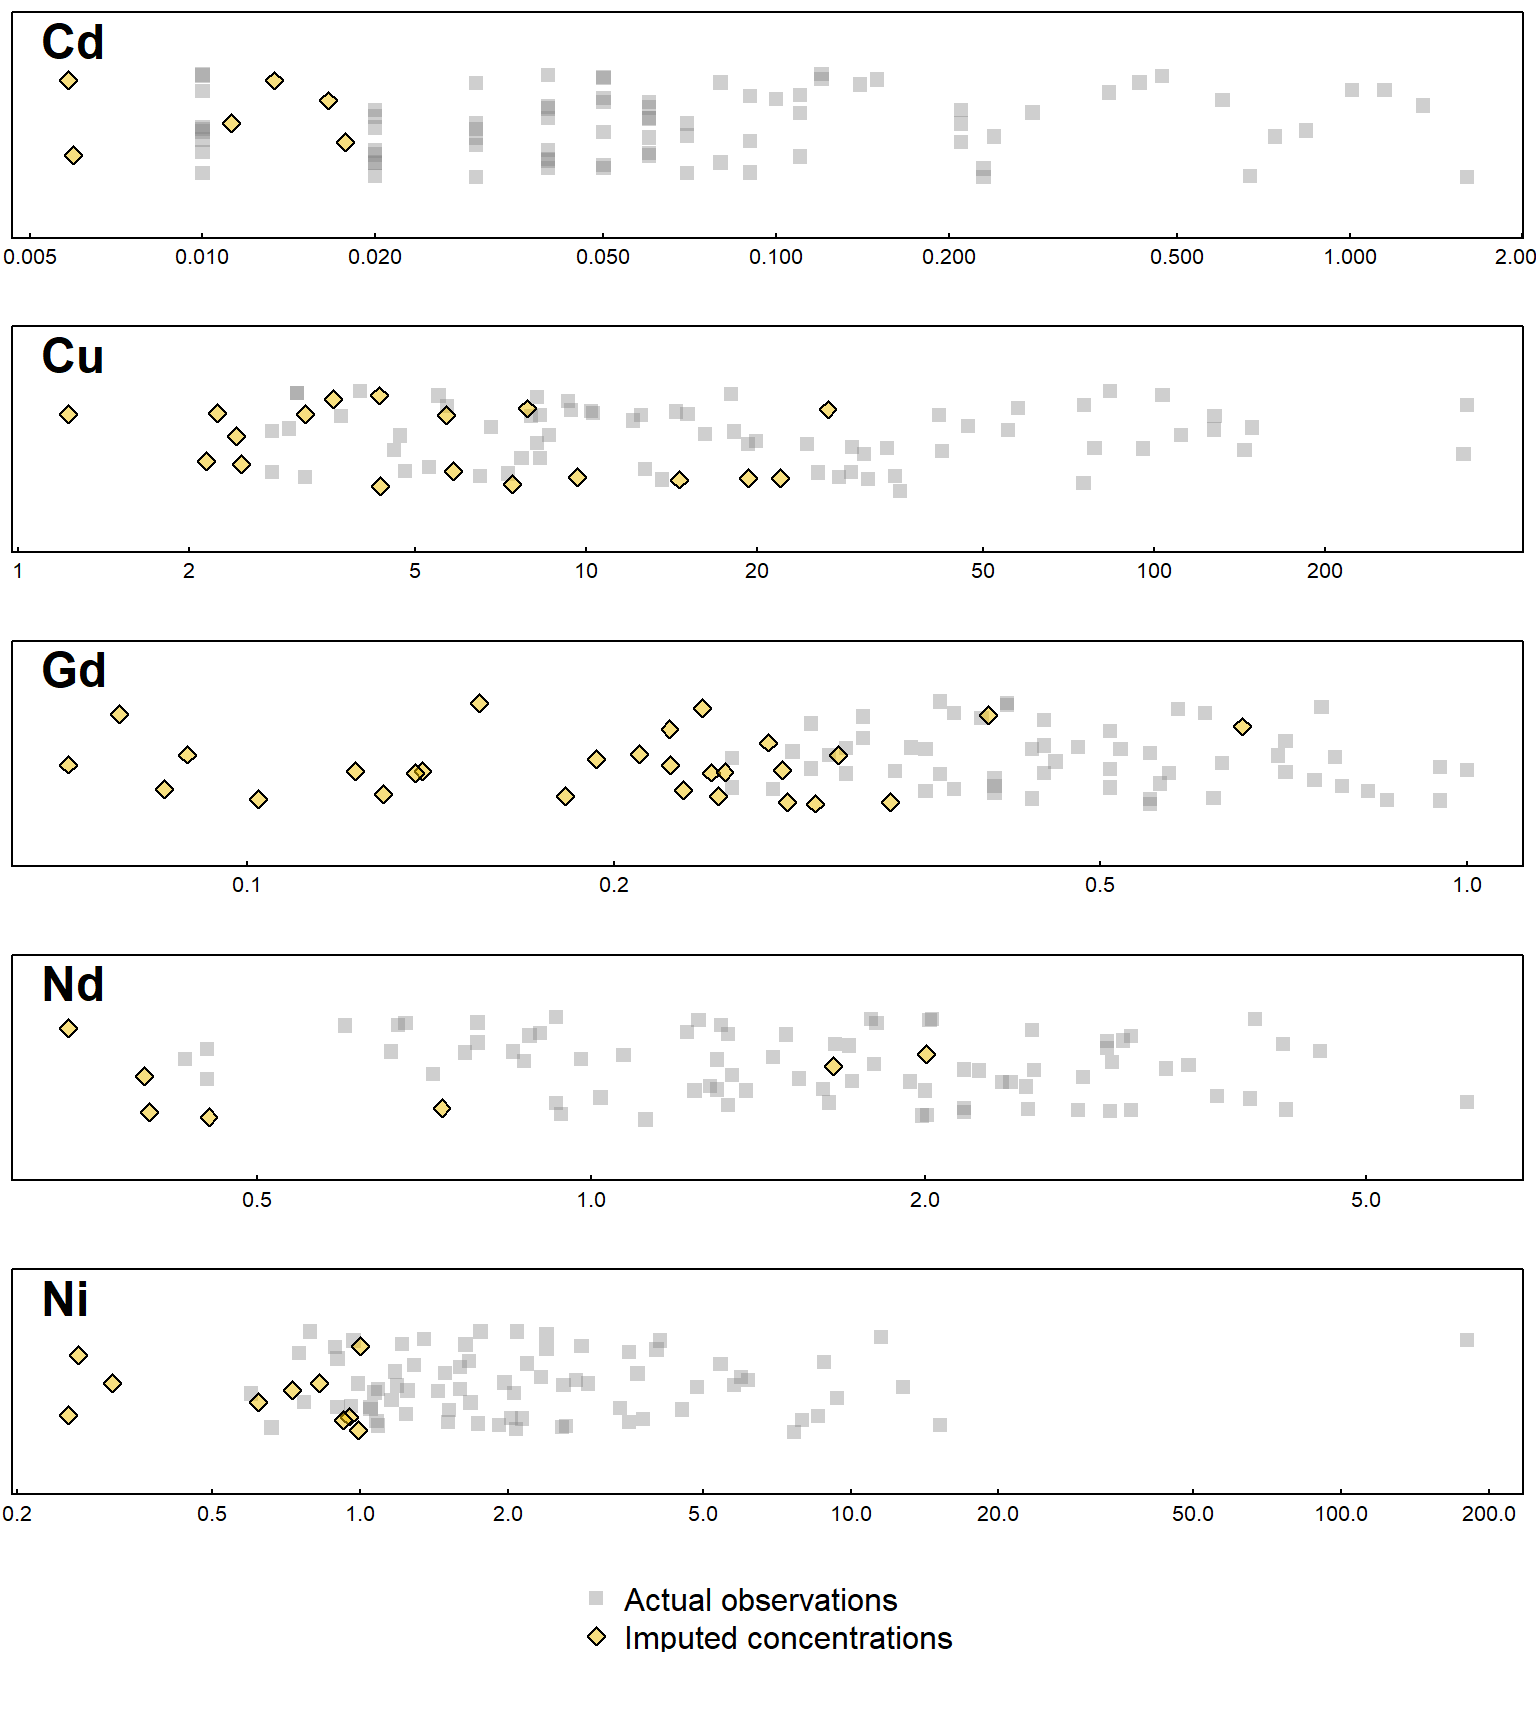
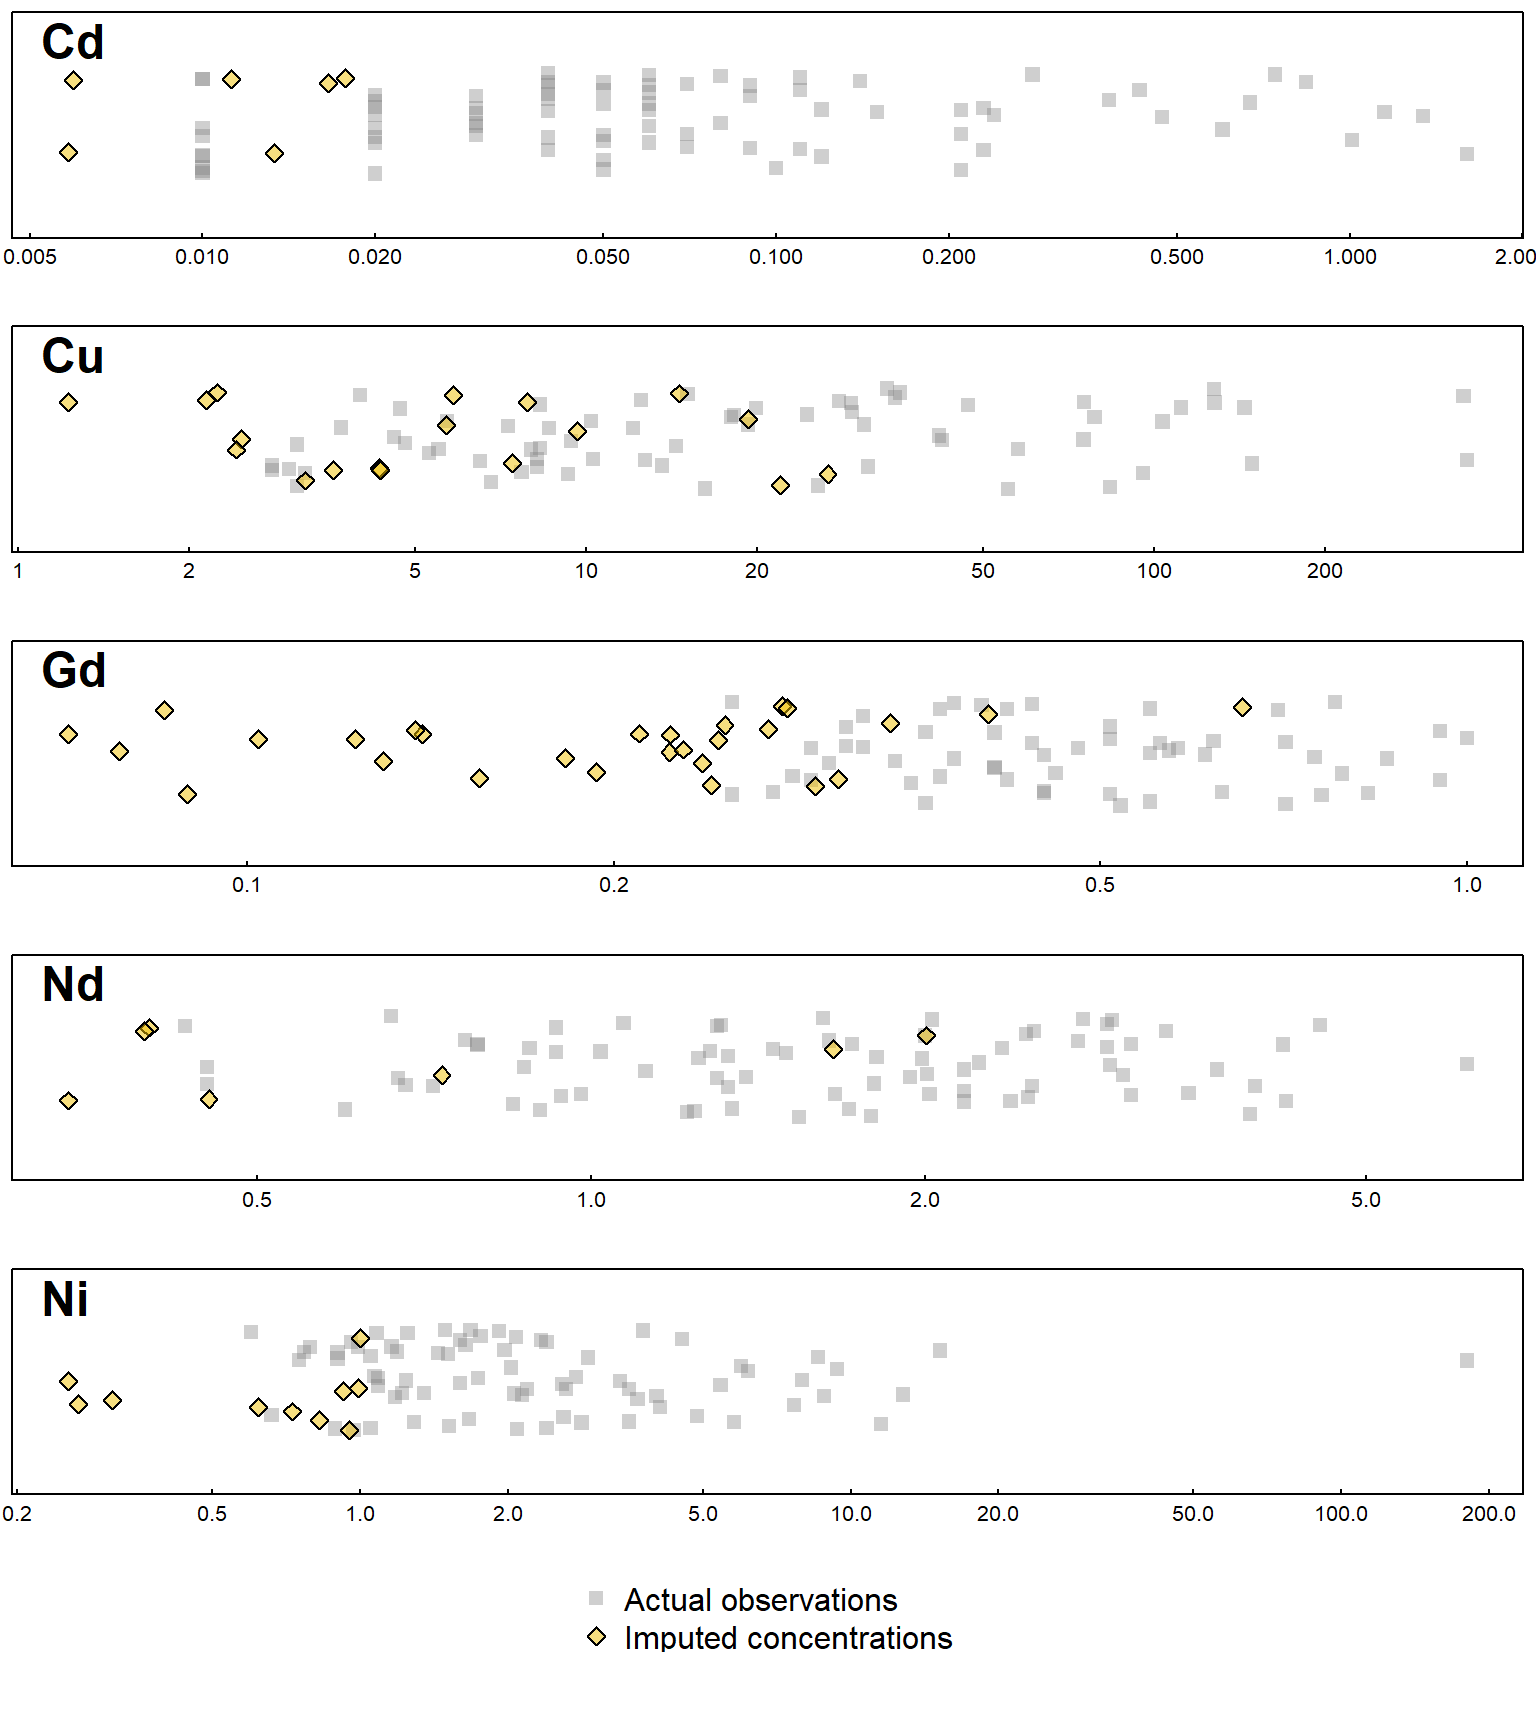
fix headings and TOC

diff --git a/docs/ExploreCompositions.html b/docs/ExploreCompositions.html
@@ -655,8 +655,8 @@ div.tocify {
 </div>
 
 
-<div id="introduction" class="section level1">
-<h1>Introduction</h1>
+<div id="compositional-data" class="section level1">
+<h1>Compositional data</h1>
 <p>As we've <a href="pca.html">already seen</a>, compositional data,
 defined as any measurements which are proportions of some whole, are
 encountered in environmental science and many other disciplines. Much of
@@ -710,23 +710,25 @@ Veryard Reserves in North Perth, Western Australia (see Rate, 2021 for
 details).</p>
 <div class="sourceCode" id="cb2"><pre class="sourceCode r"><code class="sourceCode r"><span id="cb2-1"><a href="#cb2-1" tabindex="-1"></a>giturl <span class="ot">&lt;-</span> <span class="st">&quot;https://github.com/Ratey-AtUWA/Learn-R-web/raw/refs/heads/main/&quot;</span></span>
 <span id="cb2-2"><a href="#cb2-2" tabindex="-1"></a>sv18 <span class="ot">&lt;-</span> <span class="fu">read.csv</span>(<span class="fu">paste0</span>(giturl, <span class="st">&quot;sv18orig.csv&quot;</span>), <span class="at">stringsAsFactors =</span> <span class="cn">TRUE</span>)</span></code></pre></div>
+<div id="checking-and-managing-the-data" class="section level2">
+<h2>Checking and managing the data</h2>
 <p>The first thing we'll check is how many missing values the dataset
 variables have. To do this we use the <code>sapply</code> function to
 apply the function <code>sum(is.na(x))</code> to each column in the
 <code>sv18</code> data frame:</p>
 <div class="sourceCode" id="cb3"><pre class="sourceCode r"><code class="sourceCode r"><span id="cb3-1"><a href="#cb3-1" tabindex="-1"></a>nMiss <span class="ot">&lt;-</span> <span class="fu">sapply</span>(sv18, <span class="at">FUN=</span><span class="cf">function</span>(x){<span class="fu">sum</span>(<span class="fu">is.na</span>(x))})</span>
 <span id="cb3-2"><a href="#cb3-2" tabindex="-1"></a>nMiss[nMiss<span class="sc">&gt;</span><span class="dv">0</span>]</span></code></pre></div>
-<pre><code>##       range Depth_upper Depth_lower          pH          EC          As          Cd 
-##          12          12          12          12          13           2           6 
-##          Cu          Gd          Mo          Nd          Ni          Pb           S 
-##          18          28           7           7          10           1           2 
-##          Sr          Th          Zn 
-##           5           3           1</code></pre>
+<pre><code>##       range Depth_upper Depth_lower          pH          EC          As          Cd          Cu 
+##          12          12          12          12          13           2           6          18 
+##          Gd          Mo          Nd          Ni          Pb           S          Sr          Th 
+##          28           7           7          10           1           2           5           3 
+##          Zn 
+##           1</code></pre>
 <p>We can use <code>sum(is.na(...))</code> since <code>is.na</code>
 outputs a vector of <code>TRUE</code> or <code>FALSE</code> values, and
-since <code>TRUE</code> has a value of 1 and <code>FALSE</code> = 0, the
-sum of that vector counts the <code>TRUE</code>, that is <code>NA</code>
-or missing, values.</p>
+since in R <code>TRUE</code> has a value of 1 and
+<code>FALSE</code> = 0, the sum of that vector counts the
+<code>TRUE</code>, that is <code>NA</code> or missing, values.</p>
 <p>The output above shows a dataset with many missing values. Ignoring
 <code>range</code> and the two depth columns (which have 12 missing
 values corresponding to 12 road dust samples), we have missing values
@@ -747,16 +749,21 @@ taking logarithms is involved, it's worth checking if we have any
 negative or zero values in our elemental concentrations (columns
 <code>12:37</code> in the <code>sv18</code> data frame):</p>
 <div class="sourceCode" id="cb5"><pre class="sourceCode r"><code class="sourceCode r"><span id="cb5-1"><a href="#cb5-1" tabindex="-1"></a><span class="fu">sapply</span>(sv18[,<span class="dv">12</span><span class="sc">:</span><span class="dv">37</span>], <span class="at">FUN=</span><span class="cf">function</span>(x){<span class="fu">min</span>(x, <span class="at">na.rm=</span>T)<span class="sc">&lt;=</span><span class="dv">0</span>})</span></code></pre></div>
-<pre><code>##    Al    As    Ba    Ca    Cd    Ce    Cr    Cu    Fe    Gd     K    La    Mg    Mn    Mo 
-## FALSE FALSE FALSE FALSE FALSE FALSE FALSE FALSE FALSE FALSE FALSE FALSE FALSE FALSE FALSE 
-##    Na    Nd    Ni     P    Pb     S    Sr    Th     V     Y    Zn 
-## FALSE FALSE FALSE FALSE FALSE FALSE FALSE FALSE FALSE FALSE FALSE</code></pre>
+<pre><code>##    Al    As    Ba    Ca    Cd    Ce    Cr    Cu    Fe    Gd     K    La    Mg    Mn    Mo    Na    Nd 
+## FALSE FALSE FALSE FALSE FALSE FALSE FALSE FALSE FALSE FALSE FALSE FALSE FALSE FALSE FALSE FALSE FALSE 
+##    Ni     P    Pb     S    Sr    Th     V     Y    Zn 
+## FALSE FALSE FALSE FALSE FALSE FALSE FALSE FALSE FALSE</code></pre>
 <p>The check returns all <code>FALSE</code> values, so we have no
 negative or zero concentrations. We can proceed...</p>
 <blockquote>
 <p>💡 What other ways could we check, using R function(s), whether we
 have any negative or zero concentrations?<a href="#foot1">¹</a></p>
 </blockquote>
+<p> </p>
+</div>
+</div>
+<div id="imputing-missing-concentrations" class="section level1">
+<h1>Imputing missing concentrations</h1>
 <p>We now use one of the imputation functions from the
 <code>robCompositions</code> R package to calculate estimates for our
 missing values. There are a couple of sensible choices:
@@ -862,12 +869,16 @@ have what you think you made! Another good way we can check is to
 calculate sums of compositions across rows. For clr-transformed
 compositions, these row sums should all be zero:</p>
 <div class="sourceCode" id="cb11"><pre class="sourceCode r"><code class="sourceCode r"><span id="cb11-1"><a href="#cb11-1" tabindex="-1"></a><span class="fu">round</span>(<span class="fu">rowSums</span>(sv18clr[,<span class="dv">12</span><span class="sc">:</span><span class="dv">37</span>]),<span class="dv">9</span>)</span></code></pre></div>
-<pre><code>##  [1] 0 0 0 0 0 0 0 0 0 0 0 0 0 0 0 0 0 0 0 0 0 0 0 0 0 0 0 0 0 0 0 0 0 0 0 0 0 0 0 0 0 0 0 0 0
-## [46] 0 0 0 0 0 0 0 0 0 0 0 0 0 0 0 0 0 0 0 0 0 0 0 0 0 0 0 0 0 0 0 0 0 0 0 0 0 0 0 0</code></pre>
+<pre><code>##  [1] 0 0 0 0 0 0 0 0 0 0 0 0 0 0 0 0 0 0 0 0 0 0 0 0 0 0 0 0 0 0 0 0 0 0 0 0 0 0 0 0 0 0 0 0 0 0 0 0 0
+## [50] 0 0 0 0 0 0 0 0 0 0 0 0 0 0 0 0 0 0 0 0 0 0 0 0 0 0 0 0 0 0 0 0 0 0 0 0</code></pre>
 <p>We can see that the row sums are all zero (to 9 decimal places,
 anyway!), so the clr-transformation seems to have worked.<br />
 💡 You can check for yourself what the output is without
 <code>round</code>ing...</p>
+<p> </p>
+</div>
+<div id="evaluating-compositional-dissimilarity" class="section level1">
+<h1>Evaluating compositional (dis)similarity</h1>
 <p>We're now ready for some compositional data analysis; often this is a
 multivariate endeavour. One of the simplest but nevertheless useful
 things we can do is generate a <em>distance matrix</em> (or
@@ -984,11 +995,11 @@ soils near the reserve boundary was affected by transported road dust.
 The Aitchison distances could provide some evidence to support such
 hypotheses (or not).</p>
 <p> </p>
-<div id="revisiting-the-cu-issue-in-this-dataset"
+<div id="revisiting-the-cu-imputation-issue-in-this-dataset"
 class="section level2">
-<h2>Revisiting the Cu issue in this dataset</h2>
+<h2>Revisiting the Cu imputation issue in this dataset</h2>
 <p>Remember that we were suspicious that the imputed Cu concentrations
-didn't appear to be correct? Let's try the clr-transformation and
+didn't appear to be realistic? Let's try the clr-transformation and
 (dis)similarity analysis again, but removing Cu altogether.</p>
 <div class="sourceCode" id="cb18"><pre class="sourceCode r"><code class="sourceCode r"><span id="cb18-1"><a href="#cb18-1" tabindex="-1"></a><span class="co"># edit, collate, transform imputed data</span></span>
 <span id="cb18-2"><a href="#cb18-2" tabindex="-1"></a>noCu <span class="ot">&lt;-</span> <span class="fu">which</span>(<span class="fu">colnames</span>(imputed<span class="sc">$</span>xImp)<span class="sc">==</span><span class="st">&quot;Cu&quot;</span>)</span>
@@ -1116,8 +1127,9 @@ for them...</p>
 <p> </p>
 </div>
 </div>
-<div id="references-and-r-packages" class="section level2">
-<h2>References and R Packages</h2>
+</div>
+<div id="references-and-r-packages" class="section level1">
+<h1>References and R Packages</h1>
 <p>Egozcue, J. J., Gozzi, C., Buccianti, A., &amp; Pawlowsky-Glahn, V.
 (2024). Exploring geochemical data using compositional techniques: A
 practical guide. <em>Journal of Geochemical Exploration</em>,
@@ -1154,6 +1166,8 @@ target="_blank">doi:10.32614/CRAN.package.compositions</a>. R package
 version 2.0-9.</p>
 <p> </p>
 <hr style="border: none; height: 2px; background-color: #039; margin-left: 0; width: 50%;">
+<div id="footnotes" class="section level2">
+<h2>Footnotes</h2>
 <p id="foot1">
 ¹ 💡 Try <code>summary(sv18[,12:37])</code> or <code>apply(sv18[,12:37],
 2, min, na.rm=T)</code>. There are other ways too!
@@ -1228,7 +1242,7 @@ $(document).ready(function ()  {
 
     // establish options
     var options = {
-      selectors: "h1,h2,h3",
+      selectors: "h1,h2",
       theme: "bootstrap3",
       context: '.toc-content',
       hashGenerator: function (text) {
